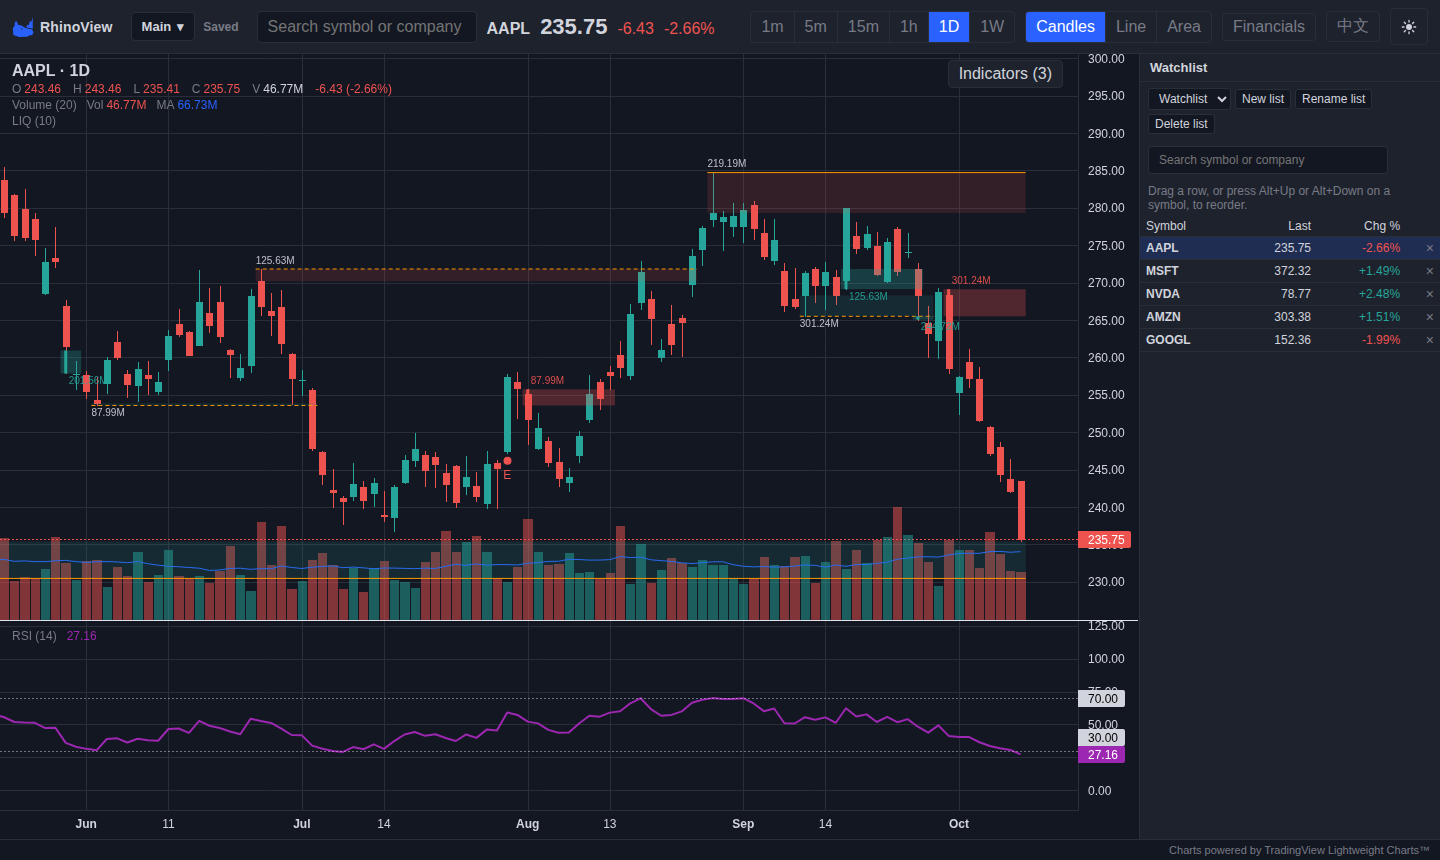
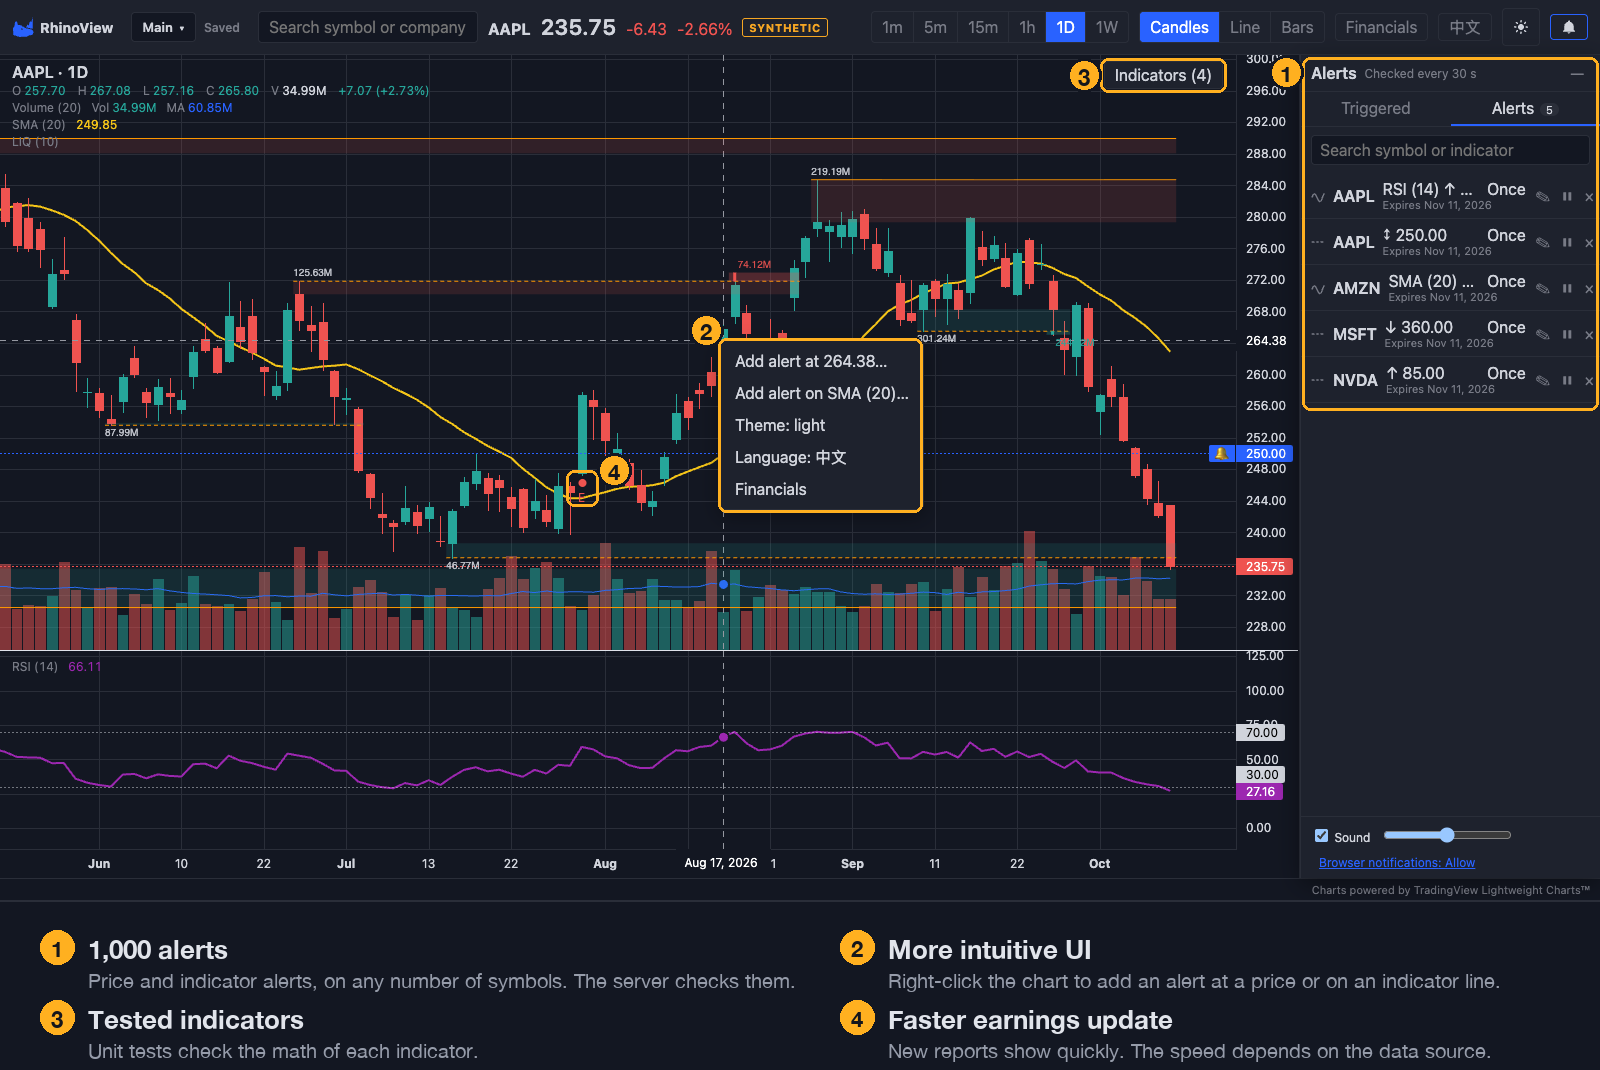
docs: add callouts to the README figures, and add a Chinese user guide
The README figures now show four points with numbered callouts: 1,000
alerts, a more intuitive UI (the right-click menu), tested indicators, and
faster earnings updates (these depend on the data source). New screenshots
replace the old ones, which showed the "Area" button.

docs/USER_GUIDE.zh-CN.md is the Chinese version of the user guide. Both
READMEs and both guides link to it.

diff --git a/docs/USER_GUIDE.zh-CN.md b/docs/USER_GUIDE.zh-CN.md
@@ -1,0 +1,188 @@
+# RhinoView 用户指南
+
+<p><a href="USER_GUIDE.md">English</a> · <b>简体中文</b></p>
+
+本指南介绍 RhinoView 的使用方法。安装和启动方法见 README 中的[安装与运行](../README.zh-CN.md#安装与运行)一节。
+
+## 目录
+
+1. [基础操作](#1-基础操作)
+2. [右键菜单](#2-右键菜单)
+3. [指标](#3-指标)
+4. [警报](#4-警报)
+5. [警报上限与调用预算](#5-警报上限与调用预算)
+6. [警报通知](#6-警报通知)
+
+## 1. 基础操作
+
+大多数控件在界面上一看就懂。下面只列出不太直观的几项：
+
+- **图表类型。** **K线**、**折线**和**美国线**。**美国线**即 OHLC 柱状图，与 TradingView 相同：
+  左侧短横线是开盘价，右侧短横线是收盘价。
+- **平移和缩放。** 拖动图表可以移动。在价格轴上拖动或滚动鼠标滚轮可以缩放价格。单击**自动**
+  可让价格轴重新适应可见的 K 线。
+- **布局。** 左上角的按钮。每个布局保存代码、周期、图表类型和指标。每次更改都会自动保存。
+- **自选。** 单击一行即可在图表中显示该代码。拖动一行，或按 Alt+↑ / Alt+↓，可以调整顺序。
+- **“模拟数据”标记。** 如果显示此标记，说明价格是生成的，不是真实行情。
+
+## 2. 右键菜单
+
+在图表的某个窗格上右键单击。图表获得焦点时，也可以按 Shift+F10 或菜单键。菜单项随窗格和指针位置而变化：
+
+| 右键单击的位置 | 菜单中的警报项 |
+|---|---|
+| 主图（价格窗格） | **在 {价格} 添加警报…**：在指针处的价格添加价格警报。 |
+| 主图，且有可见的 SMA 或 EMA | **为 {指标} 添加警报…**：每条可见的 SMA 和 EMA 各一项。收盘价穿越该线时触发。 |
+| RSI 或 MACD 副图 | **在 {指标} {数值} 添加警报…**：使用指针处的指标数值。 |
+
+每个菜单还包含以下项：
+
+- **主题**：在深色主题和浅色主题之间切换。
+- **语言**：在中文和英文之间切换。
+
+在价格轴、时间轴或图例上右键单击时，菜单中没有警报项，此时显示浏览器自带的菜单。
+
+## 3. 指标
+
+### 3.1 添加和修改指标
+
+1. 单击图表右上角的**指标**。
+2. 单击一个指标即可添加。
+3. 在同一面板中修改参数、颜色和是否显示。
+
+无效的参数会显示错误，RhinoView 不会应用它。要调整顺序，可以拖动 ⠿、按 Alt+↑ / Alt+↓，或单击 ▲ / ▼。
+图表下方的副图按此顺序排列。
+
+### 3.2 指标一览
+
+| 指标 | 窗格 | 显示内容 | 警报 |
+|---|---|---|---|
+| SMA | 主图 | 简单移动平均线 | 支持：收盘价穿越该线 |
+| EMA | 主图 | 指数移动平均线 | 支持：收盘价穿越该线 |
+| RSI | 独立副图 | 相对强弱指数，0 到 100 | 支持：RSI 穿越某个数值 |
+| MACD | 独立副图 | MACD 线、信号线和柱状图 | 支持：某条线穿越某个数值或另一条线 |
+| Volume | 主图 | 成交量及其移动平均线 | 不支持 |
+| VRVP | 主图 | 可见区间成交量分布，含价值区 | 不支持 |
+| Liquidity | 主图 | 枢轴高点和低点处的流动性区域，以及对这些区域的扫单 | 不支持 |
+| Confluence | 主图 | 价位簇，以及放量收盘穿越价位簇 | 不支持 |
+
+左上角的图例显示指针所在 K 线上每个指标的数值。
+
+### 3.3 指标警报只使用已收盘的 K 线
+
+指标警报只检查已收盘的 K 线，不检查当前尚未收盘的 K 线。
+
+- 日内警报（1 分钟到 1 小时）在每根 K 线收盘后检查该 K 线。
+- 日线或周线警报在整个周期结束后（UTC 00:00）检查。因此日线警报会在美股收盘几小时后才触发。
+
+警报保存的是创建时指标的周期和参数。之后在图表上修改指标，不会改变已有的警报。
+
+## 4. 警报
+
+警报由服务器检查。关闭浏览器后，警报仍会继续工作。
+
+### 4.1 创建警报
+
+1. 在图表上右键单击（见[右键菜单](#2-右键菜单)）。
+2. 单击一个**添加警报**项，打开**创建警报**对话框。
+3. 设置以下字段：
+   - **条件**：**穿越**、**向上穿越**或**向下穿越**。
+   - **价格**、**数值**或**目标**：警报监视的水平。
+   - **触发**：**仅一次**或**每次**。
+   - **有效期**：1 周到 3 年，默认为 1 个月。
+   - **消息**：最多 200 个字符。留空时由 RhinoView 自动生成。
+4. 单击**创建**。
+
+每个价格警报在图表上显示为一条带 🔔 的虚线。
+
+### 4.2 管理警报
+
+单击右上角的铃铛按钮。警报窗口有两个标签页：
+
+- **已触发**：已触发的警报，最新的在前。**全部标为已读**会清除铃铛上的计数。
+- **全部警报**：您的所有警报。每条警报都可以**编辑**、**暂停**、**启用**或**删除**。
+
+搜索框可以按代码或指标查找警报。窗口可以**停靠**在图表旁边，也可以**最小化**。
+
+## 5. 警报上限与调用预算
+
+### 5.1 上限
+
+| 项目 | 上限 |
+|---|---|
+| 警报 | 共 1000 条 |
+| 有警报的代码 | 不限 |
+| **已触发**记录 | 最新的 1000 条，更早的记录由服务器删除 |
+| 警报消息 | 200 个字符 |
+
+已有 1000 条警报时，无法再添加。请先删除一条。
+
+### 5.2 服务器多久检查一次
+
+服务器对同一个代码最多每 30 秒检查一次。同一代码的所有警报共用一次检查。
+
+使用真实数据源时，每次检查是对数据源的一次调用。数据源限制每分钟的调用次数，因此警报有固定的
+**调用预算**：**每分钟 150 次**（`.env` 中的 `ALERT_CALL_BUDGET`）。其余调用留给自选列表。
+
+服务器按顺序轮流检查有警报的代码。同一代码两次检查的间隔取以下两者中的较大值：
+
+- 30 秒。
+- 有警报的代码数除以 150，单位为分钟。
+
+| 有警报的代码数 | 每个代码的检查间隔 |
+|---|---|
+| 不超过 75 | 每 30 秒 |
+| 150 | 每分钟 |
+| 300 | 每 2 分钟 |
+| 1000 | 约每 7 分钟 |
+
+警报窗口会显示当前间隔，例如“每 7 分钟检查一次”。
+
+### 5.3 预算带来的影响
+
+- **只会延迟，不会漏掉。** 每次检查都会把水平与最新价以及当日最高价、最低价比较，
+  因此两次检查之间发生的穿越也能被发现，只是通知会晚一些。
+- **代码越多，所有警报越慢。** 想更快收到警报，请把警报集中在较少的代码上。
+  同一代码上的多条警报与一条警报的开销相同。
+- **指标警报使用同一预算。** 同一代码、同一周期的所有警报共用一次调用。
+- **与自选列表共享报价。** 同时在自选列表和警报中的代码只花一次调用。
+- **预算警告。** 预算用完且有代码在等待时，警报窗口会显示提示，说明部分警报会延迟检查。
+  您可以关闭此提示。
+- **延迟数据。** 如果数据源提供的是延迟报价，警报也会延迟，弹窗会显示“延迟数据”。
+- **模拟数据。** 模拟数据源没有预算限制，服务器每 30 秒检查每个代码。
+
+要修改预算，请在 `.env` 中设置 `ALERT_CALL_BUDGET`（1 到 1000），然后重启服务器。
+
+**不要把预算设得高于数据源套餐允许的值。** 例如，FMP Starter 允许警报和自选列表合计每分钟 300 次调用。
+
+## 6. 警报通知
+
+### 6.1 弹窗
+
+警报触发时，窗口左下角会显示弹窗。
+
+- **在图表中查看**：打开该警报的代码。
+- **关闭**：把该事件标为已读并关闭弹窗。
+- 30 秒后，弹窗会收进铃铛按钮，事件保持未读。
+- 最多同时显示 3 个弹窗，其余的用一行文字显示数量。
+
+### 6.2 声音
+
+每个弹窗会播放一声短提示音。**声音**开关和音量滑块在警报窗口中。此设置只保存在当前设备的浏览器中。
+
+在您单击页面之前，浏览器不会播放声音。此时弹窗会显示提示“在页面上单击一次后才会播放声音。”
+
+### 6.3 浏览器通知
+
+RhinoView 标签页隐藏时，浏览器可以显示系统通知。
+
+1. 打开警报窗口。
+2. 在**浏览器通知**中单击**允许**。
+3. 在浏览器的请求中选择允许。
+
+如果之前阻止过通知，警报窗口会提示您。此时请在浏览器中更改本网站的通知设置。
+
+### 6.4 没有打开 RhinoView 标签页时
+
+**请保持一个 RhinoView 标签页打开，才能收到弹窗、声音和通知。** 没有打开标签页时，服务器仍会检查警报。
+事件保存在**已触发**记录中，再次打开 RhinoView 时铃铛会显示它们。RhinoView 不发送电子邮件，也不发送手机推送。

diff --git a/README.md b/README.md
@@ -17,7 +17,7 @@
 
 <p align="center"><b>English</b> · <a href="README.zh-CN.md">简体中文</a></p>
 
-![RhinoView with AAPL on the daily chart, Volume, Liquidity zones and RSI, in the dark theme](docs/images/app-en.png)
+![RhinoView with AAPL on the daily chart, in the dark theme. Callouts show four points: 1, 1,000 alerts; 2, a more intuitive UI with the right-click menu; 3, tested indicators; 4, faster earnings updates, which depend on the data source](docs/images/app-en.png)
 
 **New user? Read the [user guide](docs/USER_GUIDE.md).**
 
@@ -64,7 +64,7 @@ The Chinese interface changes more than the text:
 Data from the provider does not change: company names, descriptions, and sectors stay in
 the provider's language. Some error messages come from the server, and they stay in English.
 
-![RhinoView in Chinese and in the light theme: rises are red and falls are green](docs/images/app-zh.png)
+![RhinoView in Chinese and in the light theme: rises are red and falls are green. The callouts show the same four points in Chinese](docs/images/app-zh.png)
 
 ## Data providers
 
@@ -151,7 +151,7 @@ mocks/             MSW handlers, and fixtures recorded from real upstream respon
 
 ## Documentation
 
-- [`docs/USER_GUIDE.md`](docs/USER_GUIDE.md): The user guide: the right-click menu, indicators, alerts, the call budget, and notifications.
+- [`docs/USER_GUIDE.md`](docs/USER_GUIDE.md) ([简体中文](docs/USER_GUIDE.zh-CN.md)): The user guide: the right-click menu, indicators, alerts, the call budget, and notifications.
 - [`AGENTS.md`](AGENTS.md): Instructions for AI agents, and the ASD-STE100 output style.
 - [`docs/MULTIAGENT_PLAN.md`](docs/MULTIAGENT_PLAN.md): The build plan, phases, and review gates.
 - [`docs/CONTRACT.md`](docs/CONTRACT.md): The HTTP contract between the client and the proxy.

diff --git a/README.zh-CN.md b/README.zh-CN.md
@@ -6,7 +6,9 @@
 
 <p align="center"><a href="README.md">English</a> · <b>简体中文</b></p>
 
-![RhinoView 中文界面（浅色主题）：AAPL 日线、成交量、流动性区域与 RSI。上涨为红色，下跌为绿色](docs/images/app-zh.png)
+![RhinoView 中文界面（浅色主题）：AAPL 日线。标注说明四个要点：1. 1,000 条警报；2. 更直观的界面（右键菜单）；3. 经过测试的指标；4. 更快的财报更新（取决于数据源）。上涨为红色，下跌为绿色](docs/images/app-zh.png)
+
+**新用户？请阅读[用户指南](docs/USER_GUIDE.zh-CN.md)。**
 
 RhinoView 是一款金融图表应用。客户端使用 React、TypeScript 和
 [Lightweight Charts](https://github.com/tradingview/lightweight-charts)。一个轻量的 Fastify
@@ -136,9 +138,10 @@ mocks/             MSW 处理程序，以及从真实上游响应录制的测试
 
 ## 文档
 
+- [`docs/USER_GUIDE.zh-CN.md`](docs/USER_GUIDE.zh-CN.md)：用户指南：右键菜单、指标、警报、调用预算和通知。
+
 以下文档目前只有英文版：
 
-- [`docs/USER_GUIDE.md`](docs/USER_GUIDE.md)：用户指南：右键菜单、指标、警报、调用预算和通知。
 - [`AGENTS.md`](AGENTS.md)：给 AI 代理的说明，以及 ASD-STE100 输出风格。
 - [`docs/MULTIAGENT_PLAN.md`](docs/MULTIAGENT_PLAN.md)：构建计划、阶段和评审关口。
 - [`docs/CONTRACT.md`](docs/CONTRACT.md)：客户端与代理服务之间的 HTTP 接口约定。

diff --git a/docs/USER_GUIDE.md b/docs/USER_GUIDE.md
@@ -1,5 +1,7 @@
 # RhinoView user guide
 
+<p><b>English</b> · <a href="USER_GUIDE.zh-CN.md">简体中文</a></p>
+
 This guide tells you how to use RhinoView. To install and start the application, read
 [Setup](../README.md#setup) in the README.
 
